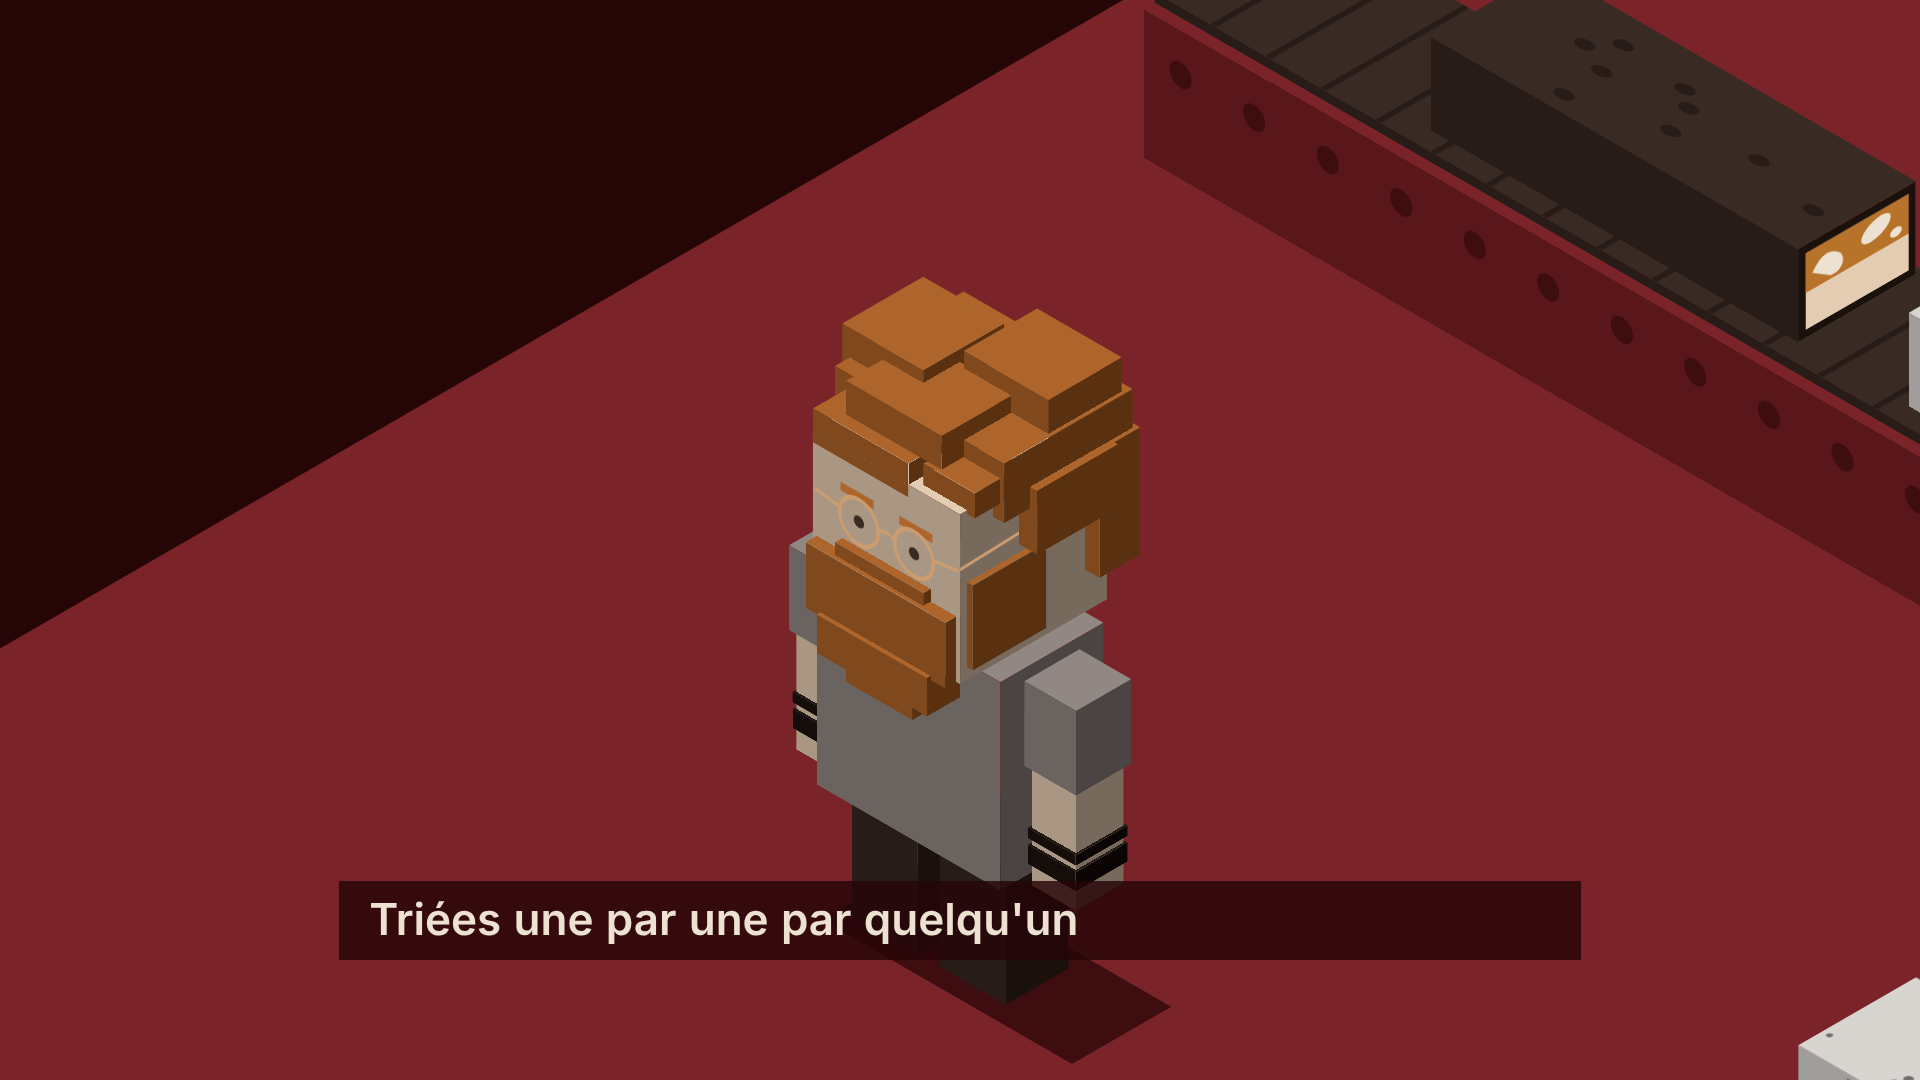
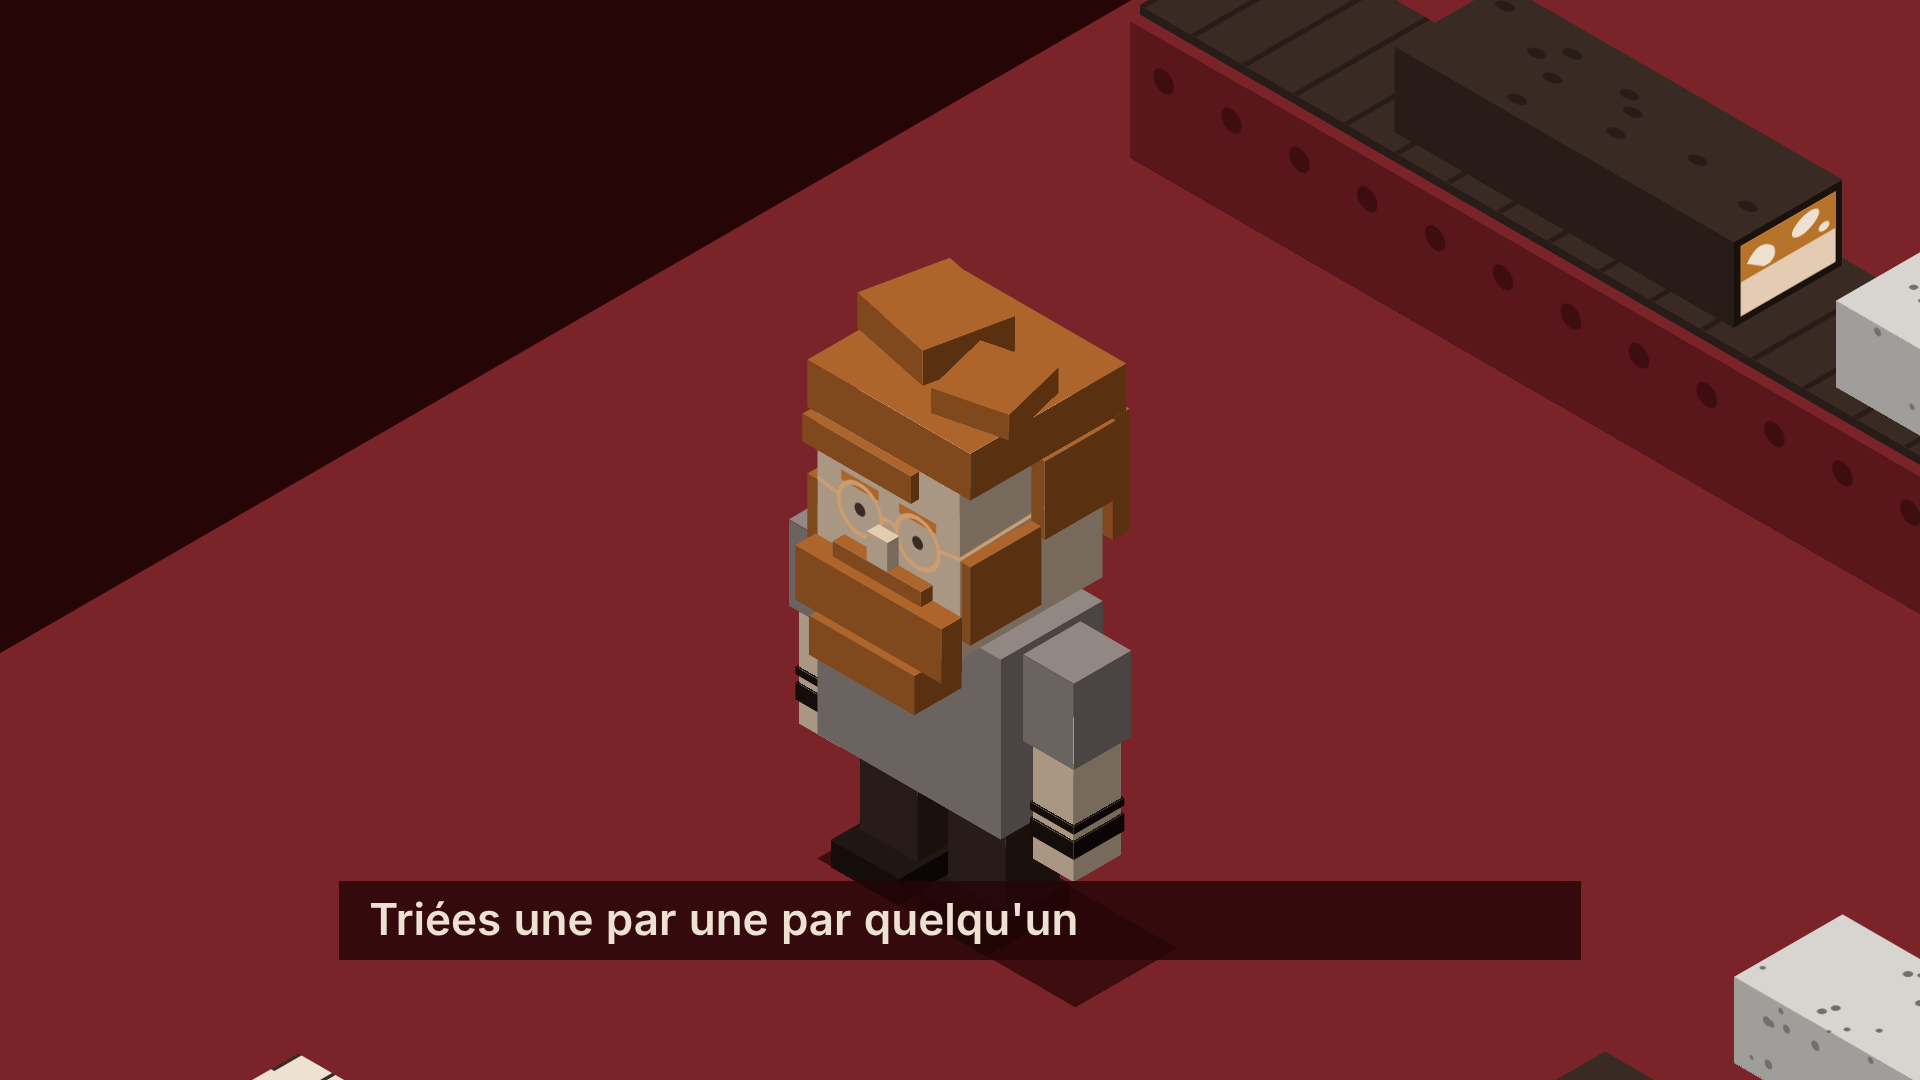
mordu-spot: operateur style jouet (moins de blocs, barbe en gradins, meches pivotees)
Claude-Session: https://claude.ai/code/session_0147tqYkZNpacY4cE4N5vZa8

diff --git a/mordu-spot/kit/kit.js b/mordu-spot/kit/kit.js
@@ -254,62 +254,67 @@
   }
 
   // ---------- l'opérateur ---------------------------------------------------
-  // Face au sud. Origine : centre des pieds. Hauteur ≈ 260.
+  // Style « jouet » : peu de blocs, grands, silhouette nette. Face au sud.
+  // Origine : centre des pieds. Hauteur ≈ 270. Aucun volume ne s'interpénètre
+  // (les contacts se font face contre face) pour un tri de profondeur propre.
   function operator(parent, o) {
     o = o || {};
     const g = obj(parent, { x: o.x, y: o.y, z: o.z, id: o.id });
     const parts = {};
-    shadow(g, { x: -48, y: -27, w: 96, d: 54, ext: 40 });
-    cuboid(g, { x: -42, y: -17, z: 0, w: 36, d: 34, h: 64, mat: "choco" });
-    cuboid(g, { x: 6, y: -17, z: 0, w: 36, d: 34, h: 64, mat: "choco" });
-    parts.torso = cuboid(g, { x: -50, y: -28, z: 64, w: 100, d: 56, h: 98, mat: "tshirt" });
-    // Bras : pivots à l'épaule pour pouvoir tamponner / pointer.
+    shadow(g, { x: -54, y: -30, w: 108, d: 60, ext: 44 });
+    // Chaussures, jambes.
+    cuboid(g, { x: -46, y: -18, z: 0, w: 40, d: 48, h: 14, mat: "bracelet" });
+    cuboid(g, { x: 6, y: -18, z: 0, w: 40, d: 48, h: 14, mat: "bracelet" });
+    cuboid(g, { x: -43, y: -16, z: 14, w: 34, d: 32, h: 50, mat: "choco" });
+    cuboid(g, { x: 9, y: -16, z: 14, w: 34, d: 32, h: 50, mat: "choco" });
+    // Torse large.
+    parts.torso = cuboid(g, { x: -54, y: -30, z: 64, w: 108, d: 60, h: 92, mat: "tshirt" });
+    // Bras : pivot à l'épaule (rotationX / rotationY pour tamponner, pointer).
     function arm(side) {
-      const sx = side < 0 ? -78 : 50;
-      const pivot = obj(g, { x: sx + 14, y: 0, z: 156 });
-      cuboid(pivot, { x: -14, y: -15, z: -40, w: 28, d: 30, h: 40, mat: "tshirt" });
-      cuboid(pivot, { x: -12, y: -13, z: -96, w: 24, d: 26, h: 58, mat: "peau" });
-      cuboid(pivot, { x: -13, y: -14, z: -86, w: 26, d: 28, h: 9, mat: "bracelet" });
-      cuboid(pivot, { x: -13, y: -14, z: -74, w: 26, d: 28, h: 5, mat: "bracelet" });
+      const pivot = obj(g, { x: side * 69, y: 0, z: 152 });
+      cuboid(pivot, { x: -15, y: -17, z: -44, w: 30, d: 34, h: 44, mat: "tshirt" });
+      cuboid(pivot, { x: -12, y: -14, z: -104, w: 24, d: 28, h: 60, mat: "peau" });
+      cuboid(pivot, { x: -13, y: -15, z: -92, w: 26, d: 30, h: 9, mat: "bracelet" });
+      cuboid(pivot, { x: -13, y: -15, z: -79, w: 26, d: 30, h: 4, mat: "bracelet" });
       return pivot;
     }
     parts.armL = arm(-1);
     parts.armR = arm(1);
-    // Tête.
-    const head = obj(g, { z: 162 });
+    // Tête : grosse, comme un jouet.
+    const head = obj(g, { z: 156 });
     parts.head = head;
-    const skull = cuboid(head, { x: -40, y: -40, z: 0, w: 80, d: 80, h: 80, mat: "peau" });
+    const skull = cuboid(head, { x: -42, y: -42, z: 0, w: 84, d: 84, h: 84, mat: "peau" });
     decal(
       skull.faces.s,
-      '<svg viewBox="0 0 80 80">' +
-        '<rect x="15" y="17" width="18" height="4" fill="var(--roux)"/>' +
-        '<rect x="47" y="17" width="18" height="4" fill="var(--roux)"/>' +
-        '<circle cx="25" cy="31" r="2.8" fill="var(--choco)"/>' +
-        '<circle cx="55" cy="31" r="2.8" fill="var(--choco)"/>' +
-        '<circle cx="25" cy="31" r="10.5" fill="none" stroke="var(--or)" stroke-width="1.8"/>' +
-        '<circle cx="55" cy="31" r="10.5" fill="none" stroke="var(--or)" stroke-width="1.8"/>' +
-        '<path d="M35.5 30 Q40 27 44.5 30" fill="none" stroke="var(--or)" stroke-width="1.6"/>' +
-        '<path d="M14.5 29 L1 27" stroke="var(--or)" stroke-width="1.6"/><path d="M65.5 29 L79 27" stroke="var(--or)" stroke-width="1.6"/>' +
+      '<svg viewBox="0 0 84 84">' +
+        '<rect x="14" y="22" width="22" height="5" fill="var(--roux)"/>' +
+        '<rect x="48" y="22" width="22" height="5" fill="var(--roux)"/>' +
+        '<circle cx="25" cy="37" r="3.2" fill="var(--choco)"/>' +
+        '<circle cx="59" cy="37" r="3.2" fill="var(--choco)"/>' +
+        '<circle cx="25" cy="37" r="12.5" fill="none" stroke="var(--or)" stroke-width="2.2"/>' +
+        '<circle cx="59" cy="37" r="12.5" fill="none" stroke="var(--or)" stroke-width="2.2"/>' +
+        '<path d="M37.5 36 Q42 32.5 46.5 36" fill="none" stroke="var(--or)" stroke-width="2"/>' +
+        '<path d="M12.5 35 L0 33" stroke="var(--or)" stroke-width="2"/><path d="M71.5 35 L84 33" stroke="var(--or)" stroke-width="2"/>' +
         "</svg>"
     );
-    decal(skull.faces.e, '<svg viewBox="0 0 80 80"><path d="M0 26 L52 24" stroke="var(--or)" stroke-width="1.6"/></svg>');
-    // Barbe fournie, en gradins : moustache, masse, menton, favoris.
-    cuboid(head, { x: -24, y: 38, z: 30, w: 48, d: 6, h: 7, mat: "roux" });
-    cuboid(head, { x: -38, y: 34, z: 0, w: 76, d: 12, h: 31, mat: "roux" });
-    cuboid(head, { x: -30, y: 30, z: -16, w: 60, d: 18, h: 18, mat: "roux" });
-    cuboid(head, { x: -18, y: 26, z: -26, w: 36, d: 18, h: 12, mat: "roux" });
-    cuboid(head, { x: 36, y: -4, z: 6, w: 7, d: 40, h: 40, mat: "roux" });
-    cuboid(head, { x: -43, y: -4, z: 6, w: 7, d: 40, h: 40, mat: "roux" });
-    // Cheveux : masse épaisse, blocs décalés.
-    cuboid(head, { x: -46, y: -48, z: 70, w: 92, d: 70, h: 28, mat: "roux" });
-    cuboid(head, { x: -48, y: -50, z: 20, w: 96, d: 22, h: 60, mat: "roux" });
-    cuboid(head, { x: -50, y: -30, z: 92, w: 44, d: 44, h: 20, mat: "roux" });
-    cuboid(head, { x: -2, y: -44, z: 96, w: 46, d: 40, h: 18, mat: "roux" });
-    cuboid(head, { x: -28, y: -6, z: 90, w: 52, d: 40, h: 16, mat: "roux" });
-    cuboid(head, { x: -40, y: 14, z: 74, w: 52, d: 26, h: 16, mat: "roux" });
-    cuboid(head, { x: 16, y: 10, z: 78, w: 28, d: 26, h: 12, mat: "roux" });
-    cuboid(head, { x: 38, y: -36, z: 50, w: 12, d: 44, h: 30, mat: "roux" });
-    cuboid(head, { x: -52, y: -36, z: 50, w: 12, d: 44, h: 30, mat: "roux" });
+    decal(skull.faces.e, '<svg viewBox="0 0 84 84"><path d="M0 33 L56 31" stroke="var(--or)" stroke-width="2"/></svg>');
+    // Nez, moustache, barbe en deux gradins, favoris.
+    cuboid(head, { x: -6, y: 42, z: 30, w: 12, d: 7, h: 15, mat: "peau" });
+    cuboid(head, { x: -26, y: 42, z: 22, w: 52, d: 7, h: 8, mat: "roux" });
+    cuboid(head, { x: -43, y: 42, z: -6, w: 86, d: 12, h: 28, mat: "roux" });
+    cuboid(head, { x: -31, y: 30, z: -26, w: 62, d: 28, h: 20, mat: "roux" });
+    cuboid(head, { x: 42, y: 0, z: 10, w: 6, d: 42, h: 40, mat: "roux" });
+    cuboid(head, { x: -48, y: 0, z: 10, w: 6, d: 42, h: 40, mat: "roux" });
+    // Tignasse : calotte, arrière, côtés, frange balayée, deux mèches pivotées.
+    cuboid(head, { x: -48, y: -50, z: 84, w: 96, d: 92, h: 24, mat: "roux" });
+    cuboid(head, { x: -48, y: -52, z: 22, w: 96, d: 10, h: 62, mat: "roux" });
+    cuboid(head, { x: 42, y: -42, z: 44, w: 8, d: 42, h: 40, mat: "roux" });
+    cuboid(head, { x: -50, y: -42, z: 44, w: 8, d: 42, h: 40, mat: "roux" });
+    cuboid(head, { x: -46, y: 42, z: 70, w: 64, d: 5, h: 14, mat: "roux" });
+    const tuftA = cuboid(head, { x: -40, y: -34, z: 108, w: 50, d: 46, h: 18, mat: "roux" });
+    gsap.set(tuftA, { rotationZ: 12 });
+    const tuftB = cuboid(head, { x: 6, y: -6, z: 108, w: 38, d: 40, h: 13, mat: "roux" });
+    gsap.set(tuftB, { rotationZ: -14 });
     g.parts = parts;
     return g;
   }

diff --git a/mordu-spot/compositions/kit-preview.html b/mordu-spot/compositions/kit-preview.html
@@ -26,7 +26,7 @@
           M.wordmark(S.iso, { x: 120, y: -460, size: 200 });
           const tl = gsap.timeline({ paused: true });
           tl.set(S.cam, M.focus({ x: 0, y: 0, z: 0 }, 0.6), 0);
-          tl.set(S.cam, M.focus({ x: -200, y: 180, z: 190 }, 2.6), 1);
+          tl.set(S.cam, M.focus({ x: -200, y: 180, z: 175 }, 2.4), 1);
           tl.set(S.cam, M.focus({ x: 120, y: -460, z: 100 }, 1.15), 2);
           M.subtitles(root, [{ start: 1.05, end: 2.0, words: [
             { w: "Triées", t: 1.1 }, { w: "une", t: 1.2 }, { w: "par", t: 1.25 }, { w: "une", t: 1.3 },
